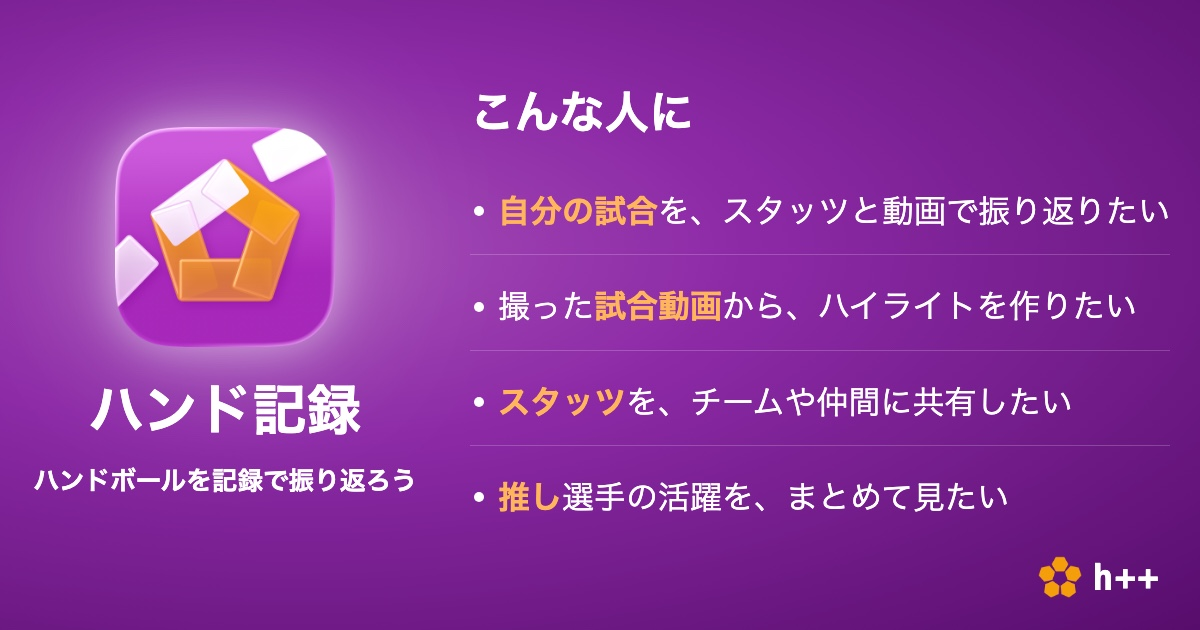
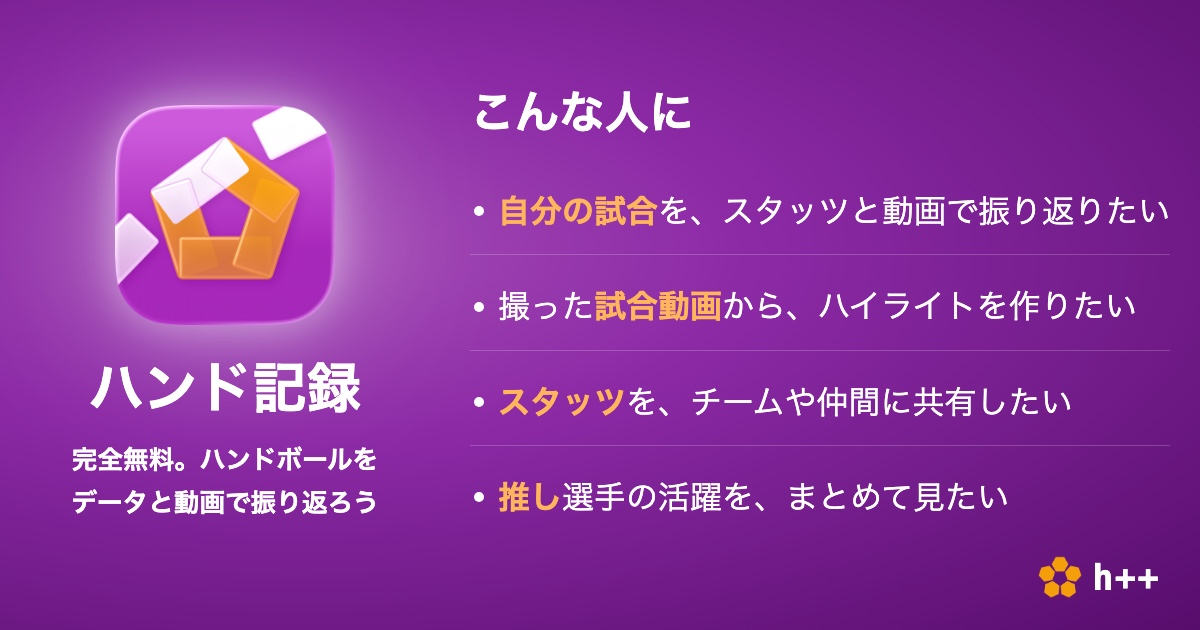
feat: ヒーローの説明を 1 行にまとめ、OG も同じ文言に揃える
タグライン「ハンドボールを記録で振り返ろう」とリード文「完全無料。ハンドボールの
試合を、スタッツと動画で振り返れるアプリです。」で、「ハンドボール」「振り返る」が
二重になっていた。「記録」もアプリ名とタグラインで重なっていた。

- 1 行にまとめる: 「完全無料。ハンドボールをデータと動画で振り返ろう」
- `.lede` は両ページから消えたので CSS ごと落とす。リード文が持っていた下余白 28px
  はタグラインに引き継ぐ（そのままだと 16px に詰まる）

同じ文字列が他に 2 箇所あったので揃える。

- `og:title` を「ハンド記録 — ハンドボールをデータと動画で振り返ろう」に
- OG カードの生成元を直し、`scripts/generate-og.sh` で `images/og.jpg` を再生成。
  カードは 1200×630 固定で自動折り返しだと「データ / と動画」で語が割れるため、
  **生成元にだけ `<br>` を入れて** 12 字ずつに揃えた（LP 側は幅可変なので入れない）

**X のカードキャッシュの再クロールが要る**（README「OG 画像の更新手順」手順 4）。
今回は画像そのものが変わっているので必須。送信先は
https://hand-plus.com/handball-recorder/ の 1 本。

Changed region(s): [[0.0308, 0.1206, 0.3392, 0.8143]]

diff --git a/handball-recorder/index.html b/handball-recorder/index.html
@@ -9,7 +9,7 @@
 <meta property="og:type" content="website">
 <meta property="og:locale" content="ja_JP">
 <meta property="og:url" content="https://hand-plus.com/handball-recorder/">
-<meta property="og:title" content="ハンド記録 — ハンドボールを記録で振り返ろう">
+<meta property="og:title" content="ハンド記録 — ハンドボールをデータと動画で振り返ろう">
 <meta property="og:description" content="完全無料。ハンドボールの試合を記録して、スタッツと動画で振り返れる iOS アプリ。アプリを入れなくても、実際の試合をブラウザで試せます。">
 <meta property="og:image" content="https://hand-plus.com/handball-recorder/images/og.jpg">
 <meta name="twitter:card" content="summary_large_image">
@@ -34,8 +34,7 @@
     <section class="hero">
         <img class="app-icon" src="images/icon-180.png" alt="ハンド記録 アプリアイコン" width="120" height="120">
         <h1>ハンド記録</h1>
-        <p class="tagline">ハンドボールを記録で振り返ろう</p>
-        <p class="lede">完全無料。ハンドボールの試合を、スタッツと動画で振り返れるアプリです。</p>
+        <p class="tagline">完全無料。ハンドボールをデータと動画で振り返ろう</p>
     </section>
 
     <!-- 層で畳む。LP に来る読者は「チームで記録する人」と「見て楽しみたい人」に割れ、

diff --git a/style.css b/style.css
@@ -254,16 +254,14 @@ footer.site {
     letter-spacing: 0.01em;
 }
 
+/* ヒーローの説明はこの 1 行だけ。タグラインとリード文に分けていた頃は
+   「ハンドボール」「振り返る」が両方に出て重複していた（#241）。
+   下余白 28px は、無くしたリード文が持っていたぶんを引き継いでいる。 */
 .hero .tagline {
     font-size: 1.1rem;
     font-weight: 700;
     color: var(--accent-dark);
-    margin: 8px 0 16px;
-}
-
-.hero .lede {
-    color: var(--muted);
-    margin: 0 auto 28px;
+    margin: 8px auto 28px;
     max-width: 520px;
 }
 

diff --git a/handball-recorder/og-source/index.html b/handball-recorder/og-source/index.html
@@ -123,7 +123,7 @@
         <div class="og-left">
             <img class="app-icon" src="../images/icon-512.png" alt="ハンド記録 アプリアイコン">
             <h1>ハンド記録</h1>
-            <p class="tagline">ハンドボールを記録で振り返ろう</p>
+            <p class="tagline">完全無料。ハンドボールを<br>データと動画で振り返ろう</p>
         </div>
         <div class="og-right">
             <h2>こんな人に</h2>
